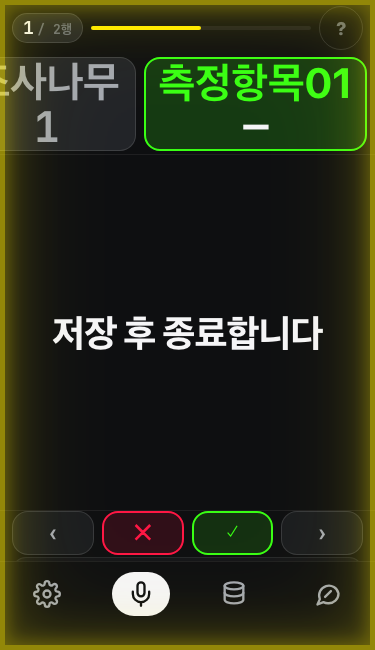
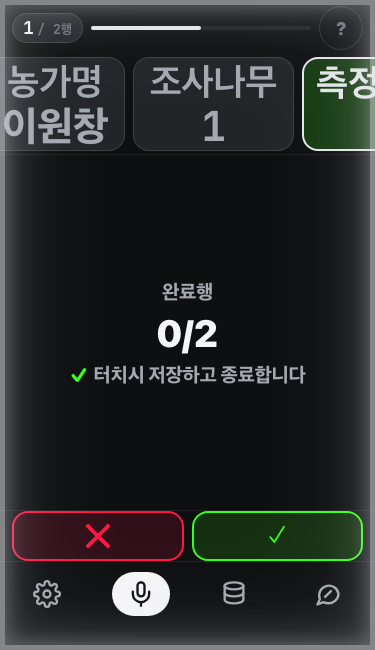
fix: close the F18 orphan-session window, split logEvents, kill reduced-motion leak (독립 리뷰 B1·B2·M1)
- B1(블로커, 리뷰 실측 재현): F18 정착 await 창에서 탭 이탈 시 고아
  클로저가 세션을 올려 종료 불가능한 인식기·마이크가 남았다.
  disposedRef(mount false/unmount true — StrictMode 대응)로 await 직후
  언마운트를 감지해 스트림 반납 후 중단. 오라클: c8-flow 'F18 리뷰 B1'
  (우회 심 끄고 정착 창 탭 이탈 → ready 유지 + 재시작 정상).
- B2(블로커): lint max-lines — logEvents 515→458(계측 빌더 3종을
  logEventsInstrumentation.ts로 분리, re-export로 경로·바이트 불변)
  · useDataActions는 ENV-12 등재(v0.44.0이 넘긴 파일 — 다음 회차 해소).
- M1: reduced-motion에서 mono 도트 점멸 잔존 — !important끼리는
  명시도가 순서를 이긴다(리뷰 실측). reduced 블록에 동일 명시도 셀렉터
  복제 + 틀린 주석 정정. 오라클: c4-mono 'C4 리뷰 M1'.
- R3-FIX-3 재협상 단언의 rAF 기아 flaky(전체 1회 실측)를 폴링 경화.
- 잔재: StateDots 7행 주석→10행, fontRenderProbe 파일명 오기.

리뷰어 재검증: 원 재현 스크립트 재실행 좀비 기전 폐쇄 확인 ·
predeploy 4게이트 개별 green · 오라클 압력 확인 → **배포 가능** 판정.
전체 스위트 1124/1124 green ×2.

Claude-Session: https://claude.ai/code/session_018G7x7u73vf1vJKHkMPxsVM

Changed region(s): [[0.0, 0.0, 1.0, 1.0], [0.1467, 0.4308, 0.8507, 0.6154], [0.6453, 0.1846, 0.7333, 0.2154]]

diff --git a/src/lib/logEvents.ts b/src/lib/logEvents.ts
@@ -453,63 +453,6 @@ export function bgMicAction(fields: {
  * v0.44.0 §5-1 계측 백로그 — "이게 들어가야 다음 실기기 로그부터는 로그만으로 판정된다."
  * ──────────────────────────────────────────────────────────────────────────── */
 
-/** §5-1 ③ — **활성 입력장치 종류.** §D의 인과(스피커폰이면 half-duplex가 필요하다)를 다음
- *  실기기 로그에서 로그만으로 확정하기 위한 축. 세션 시작 시 1회 + 장치 변경 감지 시
- *  (`emitInputDeviceChanged`의 라벨 실제 전이 게이트에 동승 — 링버퍼 잠식 없음) 방출한다.
- *
- *  🔴 유니온에 `speakerphone`이 **없다** — 출력 경로(스피커 vs 이어피스)는 Web API로 직접 못
- *  잰다(`classifyAudioInputClass` 주석). 스피커폰은 사후에 `cls=builtin` + TTS 재생창 안
- *  `stt_barge_in` 밀도(08-02 실측: 771발화/45셀 시그니처)로 추정한다.
- *
- *  원시 라벨은 extra가 아니라 이벤트의 `text` 필드에 싣는다(`input_device_changed` 계보 —
- *  extra는 저카디널리티로 유지해 SOP-003 파서 대조를 지키고, 분류가 틀렸을 때 사후 재분류의
- *  근거는 text가 남긴다). */
-export function audioInputClass(fields: {
-  cls: 'earphone' | 'builtin';
-  src: 'session_start' | 'device_change';
-}): string {
-  return `audio_input_class:${kv({ cls: fields.cls, src: fields.src })}`;
-}
-
-/** §5-1 ④ — **음성 화면 주요 슬롯의 실렌더 fontSize(px).** 실기기 점검 항목 "곡선 3항만 값
- *  변화"를 세 회차째 판정 못 한 공백 — 폰트 실렌더값이 로그에 없었다.
- *
- *  세션당 1회(안정 시점 — `fontRenderSnapshot.ts`가 계약을 코드로 보장)만 방출한다.
- *  px는 소수 1자리 반올림(부동소수 꼬리 방지 — beepPlay gain 계보). 뷰포트(w/h)를 함께 실어
- *  같은 곡선이 그 기기에서 왜 그 값으로 해석됐는지를 로그만으로 재현 가능하게 한다.
- *
- *  🔴 `probe`는 **그 슬롯 값이 실렌더 요소가 아니라 프로브(보이지 않는 측정용 노드)로 해석된
- *  값**임을 남긴다('+' 연결, 없으면 'none' — visibilityContext evidence 표기 계보). 세션 시작
- *  직후엔 히어로 값 슬롯이 비어 있고 알람 카드도 없으므로 둘은 대개 프로브다 — 출처를 숨기면
- *  "실측"과 "곡선 해석"이 로그에서 같아 보인다(계측이 자기 한계를 숨기지 않는다는 원칙). */
-export function fontRenderSnapshot(fields: {
-  hero: number;
-  alarmLabel: number;
-  alarmValue: number;
-  chipLabel: number;
-  chipValue: number;
-  w: number;
-  h: number;
-  probe: string;
-}): string {
-  const px = (v: number) => Math.round(v * 10) / 10;
-  return `font_render:${kv({
-    hero: px(fields.hero),
-    alarmLabel: px(fields.alarmLabel),
-    alarmValue: px(fields.alarmValue),
-    chipLabel: px(fields.chipLabel),
-    chipValue: px(fields.chipValue),
-    w: fields.w,
-    h: fields.h,
-    probe: fields.probe,
-  })}`;
-}
-
-/** §5-1 ② — `stt_barge_in`의 text가 **빈 final 대신 같은 발화의 마지막 interim**에서 채워졌다는
- *  출처 마커. 08-02 실기기 167건 전부 text=''/confidence=0이라 "무엇을 들었는지"가 로그에 없었고
- *  §D2(종경 컬럼) 판정이 미결로 남았다. 이 마커가 없으면 "final이 원래 그 텍스트였다"와
- *  "interim 폴백이었다"가 로그에서 같아 보인다. final 원문이 그대로면 extra 자체가 없다
- *  (과거 로그와 동형 — 기존 이벤트 바이트 불변). */
-export function bargeInTextSource(src: 'interim'): string {
-  return kv({ text_src: src });
-}
+// v0.44.0 §5-1 계측 빌더 3종(audioInputClass·fontRenderSnapshot·bargeInTextSource)은
+// logEventsInstrumentation.ts로 분리했다(500줄 게이트). 소비처 import 경로는 불변이다.
+export { audioInputClass, fontRenderSnapshot, bargeInTextSource } from './logEventsInstrumentation';

diff --git a/src/lib/logEventsInstrumentation.ts b/src/lib/logEventsInstrumentation.ts
@@ -1,0 +1,68 @@
+/**
+ * v0.44.0 §5-1 계측 빌더 3종 — logEvents.ts에서 분리(GL-006 §5 500줄 게이트).
+ * 소비처는 계속 `./logEvents`에서 import한다(아래 re-export) — 바이트 계약·파서 매핑 불변.
+ * ⚠ `kv`를 logEvents에서 가져오는 순환 import는 안전하다: 두 파일 모두 최상위 실행 없이
+ * 함수 정의만 export한다(ESM 함수 호이스팅 — 호출은 런타임에만 일어난다).
+ */
+import { kv } from './logEvents';
+
+/** §5-1 ③ — **활성 입력장치 종류.** §D의 인과(스피커폰이면 half-duplex가 필요하다)를 다음
+ *  실기기 로그에서 로그만으로 확정하기 위한 축. 세션 시작 시 1회 + 장치 변경 감지 시
+ *  (`emitInputDeviceChanged`의 라벨 실제 전이 게이트에 동승 — 링버퍼 잠식 없음) 방출한다.
+ *
+ *  🔴 유니온에 `speakerphone`이 **없다** — 출력 경로(스피커 vs 이어피스)는 Web API로 직접 못
+ *  잰다(`classifyAudioInputClass` 주석). 스피커폰은 사후에 `cls=builtin` + TTS 재생창 안
+ *  `stt_barge_in` 밀도(08-02 실측: 771발화/45셀 시그니처)로 추정한다.
+ *
+ *  원시 라벨은 extra가 아니라 이벤트의 `text` 필드에 싣는다(`input_device_changed` 계보 —
+ *  extra는 저카디널리티로 유지해 SOP-003 파서 대조를 지키고, 분류가 틀렸을 때 사후 재분류의
+ *  근거는 text가 남긴다). */
+export function audioInputClass(fields: {
+  cls: 'earphone' | 'builtin';
+  src: 'session_start' | 'device_change';
+}): string {
+  return `audio_input_class:${kv({ cls: fields.cls, src: fields.src })}`;
+}
+
+/** §5-1 ④ — **음성 화면 주요 슬롯의 실렌더 fontSize(px).** 실기기 점검 항목 "곡선 3항만 값
+ *  변화"를 세 회차째 판정 못 한 공백 — 폰트 실렌더값이 로그에 없었다.
+ *
+ *  세션당 1회(안정 시점 — `fontRenderProbe.ts`가 계약을 코드로 보장)만 방출한다.
+ *  px는 소수 1자리 반올림(부동소수 꼬리 방지 — beepPlay gain 계보). 뷰포트(w/h)를 함께 실어
+ *  같은 곡선이 그 기기에서 왜 그 값으로 해석됐는지를 로그만으로 재현 가능하게 한다.
+ *
+ *  🔴 `probe`는 **그 슬롯 값이 실렌더 요소가 아니라 프로브(보이지 않는 측정용 노드)로 해석된
+ *  값**임을 남긴다('+' 연결, 없으면 'none' — visibilityContext evidence 표기 계보). 세션 시작
+ *  직후엔 히어로 값 슬롯이 비어 있고 알람 카드도 없으므로 둘은 대개 프로브다 — 출처를 숨기면
+ *  "실측"과 "곡선 해석"이 로그에서 같아 보인다(계측이 자기 한계를 숨기지 않는다는 원칙). */
+export function fontRenderSnapshot(fields: {
+  hero: number;
+  alarmLabel: number;
+  alarmValue: number;
+  chipLabel: number;
+  chipValue: number;
+  w: number;
+  h: number;
+  probe: string;
+}): string {
+  const px = (v: number) => Math.round(v * 10) / 10;
+  return `font_render:${kv({
+    hero: px(fields.hero),
+    alarmLabel: px(fields.alarmLabel),
+    alarmValue: px(fields.alarmValue),
+    chipLabel: px(fields.chipLabel),
+    chipValue: px(fields.chipValue),
+    w: fields.w,
+    h: fields.h,
+    probe: fields.probe,
+  })}`;
+}
+
+/** §5-1 ② — `stt_barge_in`의 text가 **빈 final 대신 같은 발화의 마지막 interim**에서 채워졌다는
+ *  출처 마커. 08-02 실기기 167건 전부 text=''/confidence=0이라 "무엇을 들었는지"가 로그에 없었고
+ *  §D2(종경 컬럼) 판정이 미결로 남았다. 이 마커가 없으면 "final이 원래 그 텍스트였다"와
+ *  "interim 폴백이었다"가 로그에서 같아 보인다. final 원문이 그대로면 extra 자체가 없다
+ *  (과거 로그와 동형 — 기존 이벤트 바이트 불변). */
+export function bargeInTextSource(src: 'interim'): string {
+  return kv({ text_src: src });
+}

diff --git a/src/lib/useVoiceSession.ts b/src/lib/useVoiceSession.ts
@@ -163,6 +163,17 @@ export function useVoiceSession() {
   // F18 — start()의 마이크 획득+정착 대기 중 재클릭 가드. 그 창에서는 phase가 아직 'ready'라
   // '음성 입력 시작' 버튼이 살아 있어, 가드 없이는 start()가 이중 진입한다(세션 이중 생성).
   const startingRef = useRef(false);
+  // 🔴 F18 리뷰 B1(v0.44.0 독립 리뷰, 실측 재현) — start()의 await 창(권한 프롬프트 무한 +
+  // 정착 1초)에서 탭을 이탈하면 VoiceScreen이 언마운트되는데, 고아가 된 이 클로저가 계속
+  // 실행돼 세션을 올리고 인식기·레코더를 **고아 인스턴스의 ref**에 만든다 — 리마운트된 새
+  // 훅은 ctrlRef가 null이라 종료를 눌러도 abort가 0회(마이크·인식기 영구 생존). await 뒤에
+  // 이 플래그를 재확인해 언마운트됐으면 중단한다. StrictMode의 모의 재마운트에서 ref가
+  // 유지되므로 mount 시 false로 되돌리는 형태가 필수다.
+  const disposedRef = useRef(false);
+  useEffect(() => {
+    disposedRef.current = false;
+    return () => { disposedRef.current = true; };
+  }, []);
   const sessionIdRef = useRef<string>('');
   const sessionLabelRef = useRef<string | undefined>(undefined);
   // 설정탭은 활성 세션 중에도 바뀔 수 있다. 목적지와 컬럼은 start()에서 함께 고정해 한 세션의
@@ -2549,6 +2560,14 @@ export function useVoiceSession() {
       }
     } finally {
       startingRef.current = false;
+    }
+    // 🔴 F18 리뷰 B1 — await 창에서 언마운트됐으면(탭 이탈) 여기서 끝낸다. 이 클로저가
+    // 만든 레코더의 스트림을 되돌려 놓는다(획득 세대 카운터가 늦게 열린 스트림도 닫는다 —
+    // audioRecorder [리뷰#6]). 세션은 올리지 않는다: 올리면 새 훅이 닿을 수 없는 고아다.
+    if (disposedRef.current) {
+      recorderRef.current?.dispose();
+      recorderRef.current = null;
+      return false;
     }
 
     sessionTargetRef.current = target;

diff --git a/src/styles/global.css b/src/styles/global.css
@@ -173,7 +173,9 @@ input::placeholder {
    사라진다(§C4 오라클이 버튼 4개의 animation:none을 단언한다).
    !important인 이유: 대상들이 자기 톤 애니메이션(edge-pulse·chip-pulse·dot-breathe)을
    인라인으로 들고 있어 mono 스코프에서 그걸 이겨야 한다. reduced-motion 블록(파일 하단)이
-   같은 !important로 더 늦게 선언돼 모션 민감 사용자에게는 이 점멸이 꺼진다. */
+   모션 민감 사용자에게 이 점멸을 끈다 — ⚠ !important끼리는 명시도가 순서를 이기므로
+   reduced 블록에 **같은 명시도의 셀렉터를 복제**해야 한다(선언 순서만 믿으면 도트가 남는다 —
+   독립 리뷰 M1 실측). */
 @keyframes pauseMonoPulse {
   0%, 100% { opacity: 1; }
   50% { opacity: 0.66; }
@@ -284,6 +286,9 @@ input::placeholder {
   [data-testid="voice-control-bar"] button[data-status="exit"],
   [data-voice-tone="mono"] [data-glow-pulse],
   [data-voice-tone="mono"] [data-testid="voice-progress-fill"],
+  /* 🔴 도트는 일반 셀렉터(state-dots span)로 못 끈다 — mono 규칙의 명시도(0,3,1)가
+     !important끼리의 비교에서 이긴다(v0.44.0 독립 리뷰 M1 실측). 같은 명시도로 복제한다. */
+  [data-voice-tone="mono"] [data-testid="state-dots"] span[data-on="true"],
   [data-voice-tone="mono"] [data-testid="column-chip"][data-active="true"] {
     animation: none !important;
     filter: none !important;

diff --git a/tests/v0440-c4-mono.spec.ts b/tests/v0440-c4-mono.spec.ts
@@ -100,3 +100,17 @@ test('C4 — 수정모드는 amber다(일시정지에서 의미 이동, 4번째 
     .evaluate((el) => getComputedStyle(el).backgroundColor);
   expect(fill, '진행바 amber').toBe('rgb(255, 234, 0)');
 });
+
+test('C4 리뷰 M1 — reduced-motion에서는 mono 도트 점멸도 꺼진다', async ({ page }) => {
+  // 독립 리뷰 M1(실측): !important끼리는 명시도가 순서를 이긴다 — mono 도트 셀렉터(0,3,1)가
+  // reduced 블록의 일반 셀렉터(0,1,1)를 이겨 모션 민감 사용자에게 점멸이 남았다.
+  // 수정: reduced 블록에 같은 명시도의 셀렉터 복제. 이 오라클이 그 복제를 지킨다.
+  await page.emulateMedia({ reducedMotion: 'reduce' });
+  await boot(page, PHONE_402);
+  await page.locator('button[title="일시정지"]').click();
+  await expect(page.locator('[data-testid="state-dots"]')).toHaveAttribute('data-glyph', 'pause');
+  await expect(page.locator('[data-voice-tone="mono"]')).toHaveCount(1);
+  const dotAnim = await page.locator('[data-testid="state-dots"] span[data-on="true"]').first()
+    .evaluate((el) => getComputedStyle(el).animationName);
+  expect(dotAnim, 'reduced-motion에서 mono 도트 정지').toBe('none');
+});

diff --git a/src/components/voice/StateDots.tsx b/src/components/voice/StateDots.tsx
@@ -319,7 +319,7 @@ export function StateDots({
       style={{
         display: 'grid',
         // StateIndicator의 명목 높이가 부모 하단 트랙보다 클 수 있다(완료/검토 상태의 짧은 화면).
-        // 고정 px 트랙을 그대로 두면 부모만 줄고 7행 격자는 남아 밴드 밖 버튼 영역을 침범한다.
+        // 고정 px 트랙을 그대로 두면 부모만 줄고 10행 격자는 남아 밴드 밖 버튼 영역을 침범한다.
         // 실제 부모 높이를 상한으로 삼아 7행을 함께 축소한다 — overflow clip이나 transform이
         // 아니라 레이아웃 박스 자체가 밴드 안에 들어가는 계약이다.
         height: `min(${gridHeight}px, 100%)`,

diff --git a/src/lib/useDataActions.ts b/src/lib/useDataActions.ts
@@ -1,3 +1,4 @@
+/* eslint-disable max-lines -- [ENV-12] v0.44.0 F23(동기화 상태기계) 유입으로 530줄 — 해소 계획: export/recover 절을 서브 훅으로 분리(백로그). 해소 시 이 주석 제거 + KNOWN-ISSUES 목록에서 삭제. */
 /**
  * v0.35.2 Stage 2 — 데이터탭 액션 오케스트레이션 훅 (DataScreen에서 순수 이동, GL-006 §7~8 UI/로직 분리).
  * 시트 동기화·Drive 로그 백업·내보내기·세션 복구·삭제·재로그인 resume의 상태와 핸들러를 소유한다.

diff --git a/KNOWN-ISSUES.md b/KNOWN-ISSUES.md
@@ -560,6 +560,7 @@
 ### [ENV-12] ESLint max-lines(500) 예외 목록 — GL-006 헌장 §5 도입 시점의 기존 초과 파일
 - **배경:** 공통 개발 헌장(GL-006, 민구 채택 2026-07-16) §5 — 파일 크기는 책임 크기의 신호(권장 150~250줄, 300줄 분리 검토, **500줄 리팩토링 대상**). v0.35.1 Stage 1-8에서 ESLint `max-lines`(500, `src/` 한정)를 오류 게이트로 도입(`npm run lint`, predeploy에 포함).
 - **예외(파일 상단 `eslint-disable max-lines`, 해소 시 주석 제거 + 이 목록에서 삭제):**
+  0. `src/lib/useDataActions.ts` (**531** — 2026-08-05, v0.44.0 F23 동기화 상태기계 유입 +31줄) — 해소 계획: export(handleExport/runZipExport)·recover 절을 서브 훅으로 분리. 🔴 기존 초과 파일이 아니라 **v0.44.0이 넘긴 파일**이다 — 다음 코드 회차에서 우선 해소.
   1. `src/lib/useVoiceSession.ts` (**3,236** — 2026-07-26 실측; v0.38.0 시점 3,112에서 v0.38.1~v0.39.0 기능 유입으로 재증가) — **Stage 3(v0.35.3)에서 코어
      재설계 완료**(판별 유니온·resolveFinal 결정표·clipPointer/trendEvaluate 모듈·logCell·
      proceedAfterCommit — 무효 상태 조합은 이제 컴파일이 차단). 줄수 해소는 후속 서브 훅 시리즈
